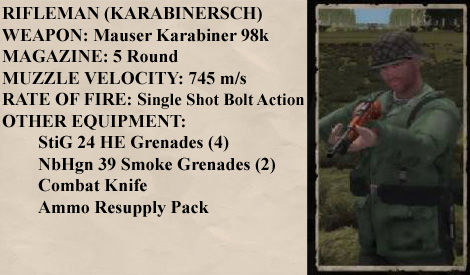
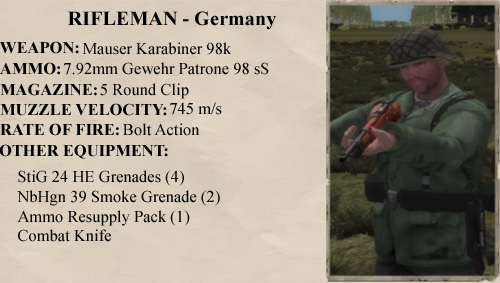
#1038 - Side pages complete.  Images included for all tier 0 Infantry for initial 'know your enemy' field.

diff --git a/web/assets/css/axisgazette.css b/web/assets/css/axisgazette.css
@@ -176,7 +176,7 @@ html, body {
 #knowEnemy {
     position:relative;
     top: -760px;
-	width: 471px;
+	width: 500px;
     height:275px;
 	text-align: center;
     

diff --git a/web/axis.php b/web/axis.php
@@ -195,8 +195,8 @@ $gpromo = file_get_contents(__DIR__ .'/../cache/playnow_axis_promotion.php');
             <span class="papertimeshuge"><?php echo "Know Your Enemy<br />"; ?>
 						<!-- Code for image rotation -->
 						<?php
-							$iDir='assets/img/allied/units/';
-							$image = glob ($iDir.'*.{jpg,png,gif}', GLOB_BRACE);
+							$pDir='assets/img/axis/units/';
+							$image = glob ($pDir.'*.{jpg,png,gif}', GLOB_BRACE);
 							$selImage = $image[array_rand($image)];
 						?>
                         <img id="poster" src="<?php echo $selImage; ?>" style="width: 460px; height: 260px;"> 
